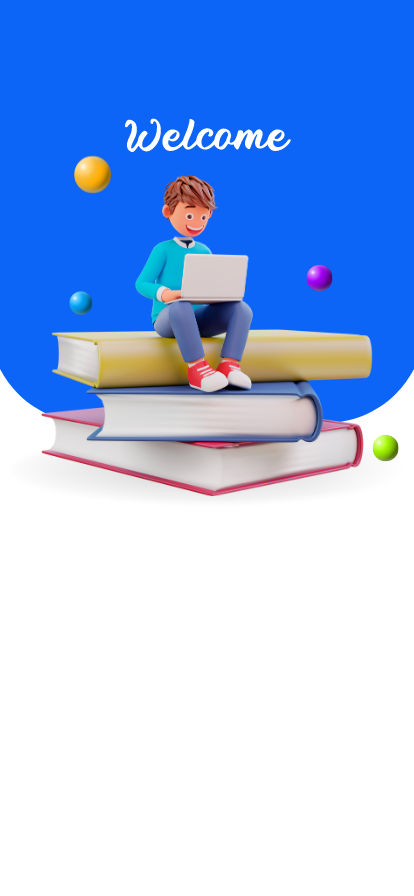
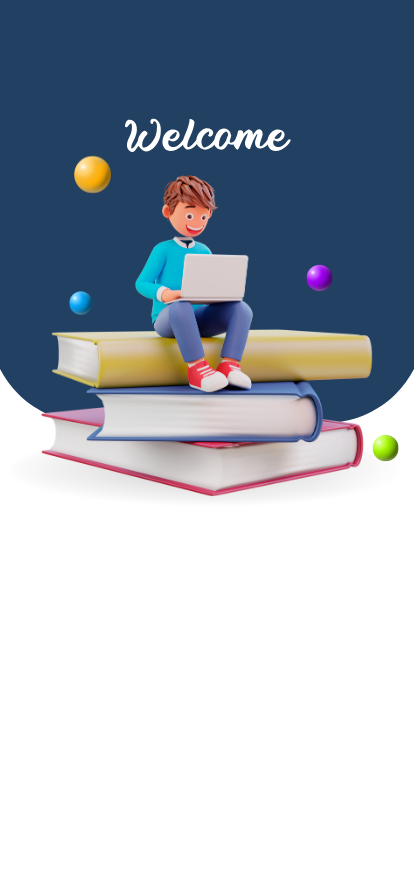
dd

diff --git a/lib/register.dart b/lib/register.dart
@@ -1,4 +1,5 @@
 import 'package:cloud_firestore/cloud_firestore.dart';
+import 'package:coltech/HomeNavigationBaruser.dart';
 import 'package:firebase_auth/firebase_auth.dart';
 import 'package:flutter/cupertino.dart';
 import 'package:flutter/material.dart';
@@ -9,13 +10,13 @@ class MyRegister extends StatefulWidget {
   @override
   _MyRegisterState createState() => _MyRegisterState();
 }
-
+var flag;
 class _MyRegisterState extends State<MyRegister> {
   final _formKey = GlobalKey<FormState>();
   TextEditingController _fullNameController = TextEditingController();
   TextEditingController _emailController = TextEditingController();
-  TextEditingController _universityController = TextEditingController();
-  TextEditingController _cgpaController = TextEditingController();
+  TextEditingController _ProfessionController = TextEditingController();
+
   TextEditingController _passwordController = TextEditingController();
   TextEditingController _confirmPasswordController = TextEditingController();
 
@@ -23,11 +24,23 @@ class _MyRegisterState extends State<MyRegister> {
   void dispose() {
     _fullNameController.dispose();
     _emailController.dispose();
-    _universityController.dispose();
-    _cgpaController.dispose();
+    _ProfessionController.dispose();
+
     _passwordController.dispose();
     _confirmPasswordController.dispose();
     super.dispose();
+  }
+
+  Future<void> storeUserData(User user) async {
+    CollectionReference users = FirebaseFirestore.instance.collection('users');
+
+    await users.doc(user.uid).set({
+      'Name': _fullNameController.text,
+      'Email':_emailController.text,
+      'Profession':_ProfessionController.text,
+
+      // Add more fields as needed
+    });
   }
 
   var email, password;
@@ -41,10 +54,24 @@ class _MyRegisterState extends State<MyRegister> {
           .user;
 
       if (user != null) {
+        // Store user data in Firestore
+        await storeUserData(user);
         // Send email verification
         await user.sendEmailVerification();
 
-        // Navigate to email verification page
+        if (await FirebaseAuth.instance.currentUser!.emailVerified)
+          flag=0;
+
+        else {
+          flag=1;
+          // Navigator.push(
+          //   context,
+          //   CupertinoPageRoute(
+          //     builder: (context) =>
+          //         //EmailVerificationPage(isEmailVerified: false),
+          //   ),
+          // );
+        }
 
       }
     } catch (e) {
@@ -73,7 +100,7 @@ class _MyRegisterState extends State<MyRegister> {
         backgroundColor: Colors.transparent,
         appBar: AppBar(
           elevation: 0,
-          backgroundColor: Color(0XFF0d65f8),
+          backgroundColor: Color(0xFF214062),
           centerTitle: true,
           leading: IconButton(
             icon: Icon(Icons.arrow_back),
@@ -123,19 +150,16 @@ class _MyRegisterState extends State<MyRegister> {
                             },
                           ),
                           roundedTextField(
-                            controller: _universityController,
-                            hintText: 'University',
+                            controller: _ProfessionController,
+                            hintText: 'Profession',
                             validator: (value) {
                               if (value!.isEmpty) {
-                                return 'Please enter your university name';
+                                return 'Please enter your Profession name';
                               }
                               return null;
                             },
                           ),
-                          roundedTextField(
-                            controller: _cgpaController,
-                            hintText: 'CGPA (optional)',
-                          ),
+
                           roundedTextField(
                             controller: _passwordController,
                             hintText: 'Password',
@@ -182,7 +206,7 @@ class _MyRegisterState extends State<MyRegister> {
                                   },
                                   child: Text('Register'),
                                   style: ElevatedButton.styleFrom(
-                                    backgroundColor: Color(0XFF0d65f8),
+                                    backgroundColor: Color(0xFF214062),
                                   ),
                                 ),
                               ),
@@ -255,6 +279,7 @@ class EmailVerificationPage extends StatelessWidget {
             ElevatedButton(
               onPressed: () {
                 // Navigate back to the login page
+                if(flag==1)
                 Navigator.pushNamed(context, 'welcome');
               },
               child: Text('Go to Login'),

diff --git a/lib/registerAs.dart b/lib/registerAs.dart
@@ -9,56 +9,82 @@ class _RegisterAsState extends State<RegisterAs> {
   @override
   Widget build(BuildContext context) {
     return Scaffold(
-        appBar: AppBar(
-          backgroundColor: Color(0XFF0d65f8),
-          title: Text('User Roles'),
+      appBar: AppBar(
+        backgroundColor: Color(0xFF214062),
+        title: Text('User Roles'),
+      ),
+      body: Center(
+        child: Column(
+          mainAxisAlignment: MainAxisAlignment.center,
+          children: [
+
+            ElevatedButton(
+              onPressed: () {
+                Navigator.pushNamed(context, 'register');
+              },
+              style: ElevatedButton.styleFrom(
+                fixedSize:Size(350, 30),
+                backgroundColor: Color(0xFF214062), // Background color
+                shape: RoundedRectangleBorder(
+                  borderRadius: BorderRadius.circular(20.0), // Rounded corners
+                ),
+                //padding: EdgeInsets.symmetric(horizontal: 20.0, vertical: 10.0), // Padding
+              ),
+              child: Text(
+                'Register as Client',
+                style: TextStyle(
+                  color: Colors.white, // Text color
+                  fontSize: 16.0, // Text size
+                ),
+              ),
+            ),
+            SizedBox(height: 30.0), // Space between buttons
+            ElevatedButton(
+              onPressed: () {
+                // Implement login logic for expertise
+                print('Registered in as Expertise');
+              },
+              style: ElevatedButton.styleFrom(
+                fixedSize:Size(350, 30),
+                backgroundColor: Color(0xFF214062), // Background color
+                shape: RoundedRectangleBorder(
+                  borderRadius: BorderRadius.circular(20.0), // Rounded corners
+                ),
+                //padding: EdgeInsets.symmetric(horizontal: 20.0, vertical: 10.0), // Padding
+              ),
+              child: Text(
+                'Register as Expertise',
+                style: TextStyle(
+                  color: Colors.white, // Text color
+                  fontSize: 16.0, // Text size
+                ),
+              ),
+            ),
+            SizedBox(height: 30.0), // Space between buttons
+            ElevatedButton(
+              onPressed: () {
+                // Implement login logic for admin
+                print('Registered as Admin');
+              },
+              style: ElevatedButton.styleFrom(
+                fixedSize:Size(350, 30),
+                backgroundColor: Color(0xFF214062), // Background color
+                shape: RoundedRectangleBorder(
+                  borderRadius: BorderRadius.circular(20.0), // Rounded corners
+                ),
+                //padding: EdgeInsets.symmetric(horizontal: 20.0, vertical: 10.0), // Padding
+              ),
+              child: Text(
+                'Register as Admin',
+                style: TextStyle(
+                  color: Colors.white, // Text color
+                  fontSize: 16.0, // Text size
+                ),
+              ),
+            ),
+          ],
         ),
-        body: Center(
-          child: Column(
-            mainAxisAlignment: MainAxisAlignment.center,
-            children: [
-              ElevatedButton(
-                onPressed: () {
-                  // Implement registration logic for clients
-                  print('Registered as Client');
-                },
-                style: ElevatedButton.styleFrom(
-                  backgroundColor: Color(0xFF0d65f8), // Background color
-                ),
-                child: Text('Register as Client',
-
-                ),
-
-              ),
-              ElevatedButton(
-                onPressed: () {
-                  // Implement login logic for expertise
-                  print('Registered in as Expertise');
-                },
-                style: ElevatedButton.styleFrom(
-                  backgroundColor: Color(0xFF0d65f8), // Background color
-                ),
-                child: Text(
-                    'Register as Expertise',
-
-                ),
-              ),
-              ElevatedButton(
-                onPressed: () {
-                  // Implement login logic for admin
-                  print('Registered in as Admin');
-                },
-                style: ElevatedButton.styleFrom(
-                  backgroundColor: Color(0xFF0d65f8), // Background color
-                ),
-                child: Text(
-                    'Register as Admin',
-                  ),
-              ),
-            ],
-          ),
-        ),
-      );
-
+      ),
+    );
   }
 }

diff --git a/lib/login.dart b/lib/login.dart
@@ -173,6 +173,7 @@ class _MyLoginState extends State<MyLogin> {
                                       child: Text(
                                         'Forgot Password',
                                         style: TextStyle(
+                                          color: Color(0xFF214062),
                                           decoration: TextDecoration.underline,
                                           fontSize: 12,
                                         ),
@@ -205,6 +206,7 @@ class _MyLoginState extends State<MyLogin> {
                                       child: Text(
                                         'Create Account',
                                         style: TextStyle(
+                                          color: Color(0xFF214062),
                                           decoration: TextDecoration.underline,
                                           fontSize: 13,
                                         ),
@@ -227,7 +229,7 @@ class _MyLoginState extends State<MyLogin> {
                                     style: TextStyle(fontSize: 16),
                                   ),
                                   style: ElevatedButton.styleFrom(
-                                    backgroundColor: Colors.black54, // Customize the button color
+                                    backgroundColor: Color(0XFF214062), // Customize the button color
                                     foregroundColor: Colors.white, // Customize the text color
                                     shape: RoundedRectangleBorder(
                                       borderRadius: BorderRadius.circular(10),

diff --git a/lib/reset_pass.dart b/lib/reset_pass.dart
@@ -65,6 +65,7 @@ class _ResetPasswordState extends State<ResetPassword> {
           'UniExcellence',
           style: TextStyle(fontWeight: FontWeight.bold),
         ),
+        backgroundColor: Color(0xFF214062),
         centerTitle: true,
       ),
       body: Padding(
@@ -102,7 +103,7 @@ class _ResetPasswordState extends State<ResetPassword> {
               ElevatedButton(
                 onPressed: _isResetting ? null : _resetPassword,
                 style: ElevatedButton.styleFrom(
-                  backgroundColor: Colors.blueAccent,
+                  backgroundColor: Color(0xFF214062),
                   padding: EdgeInsets.symmetric(vertical: 16),
                   shape: RoundedRectangleBorder(
                     borderRadius: BorderRadius.circular(10),
